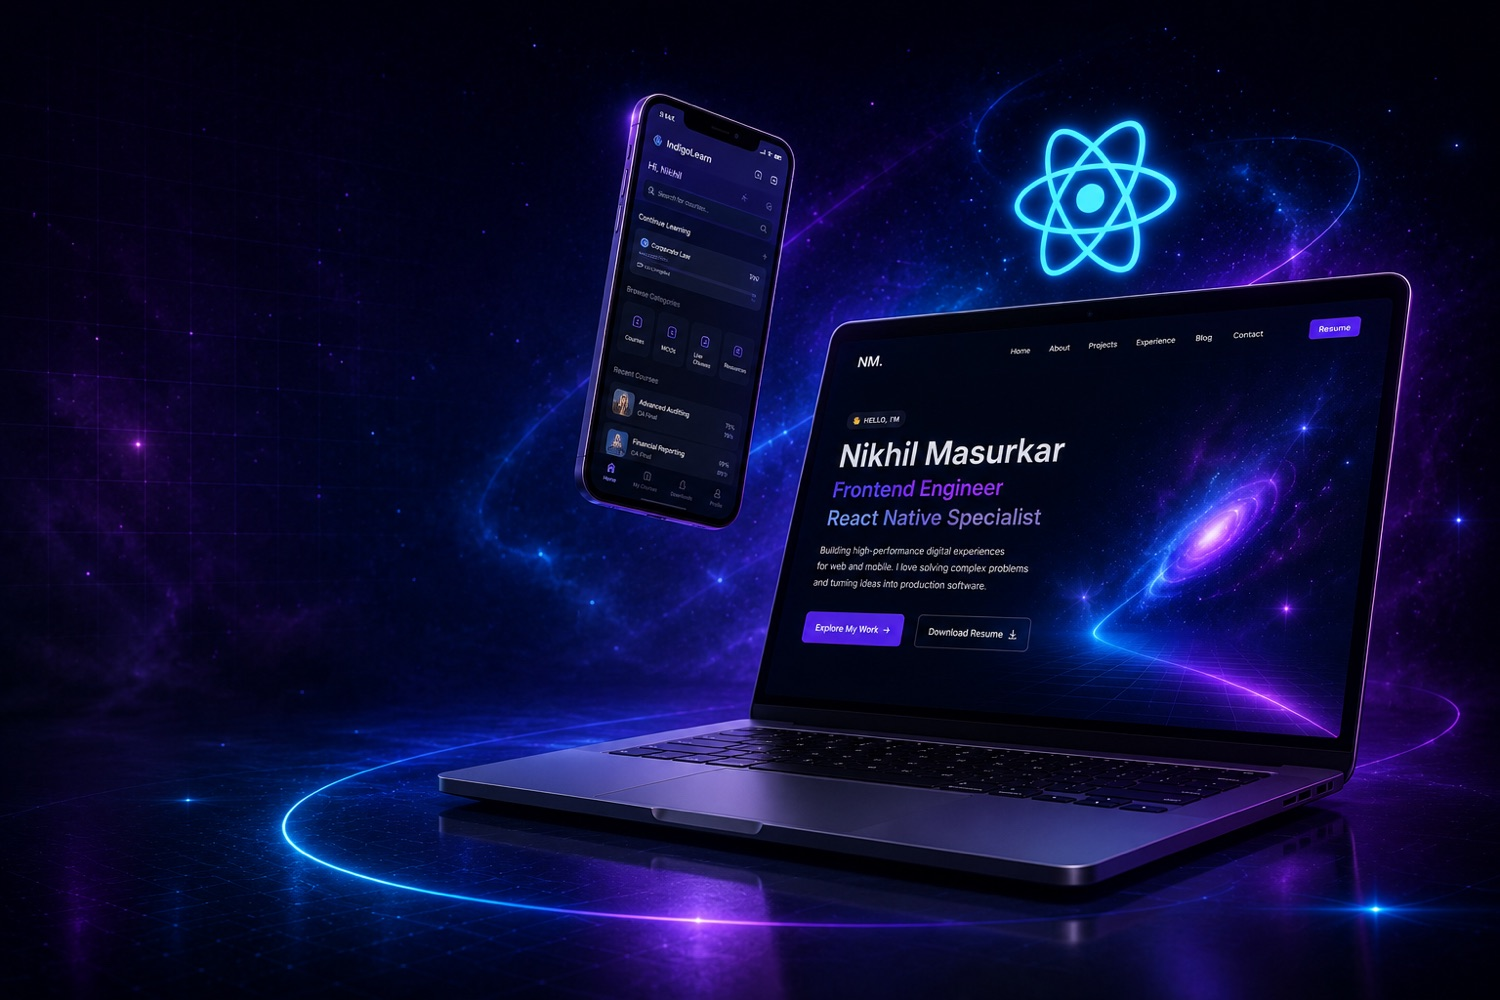
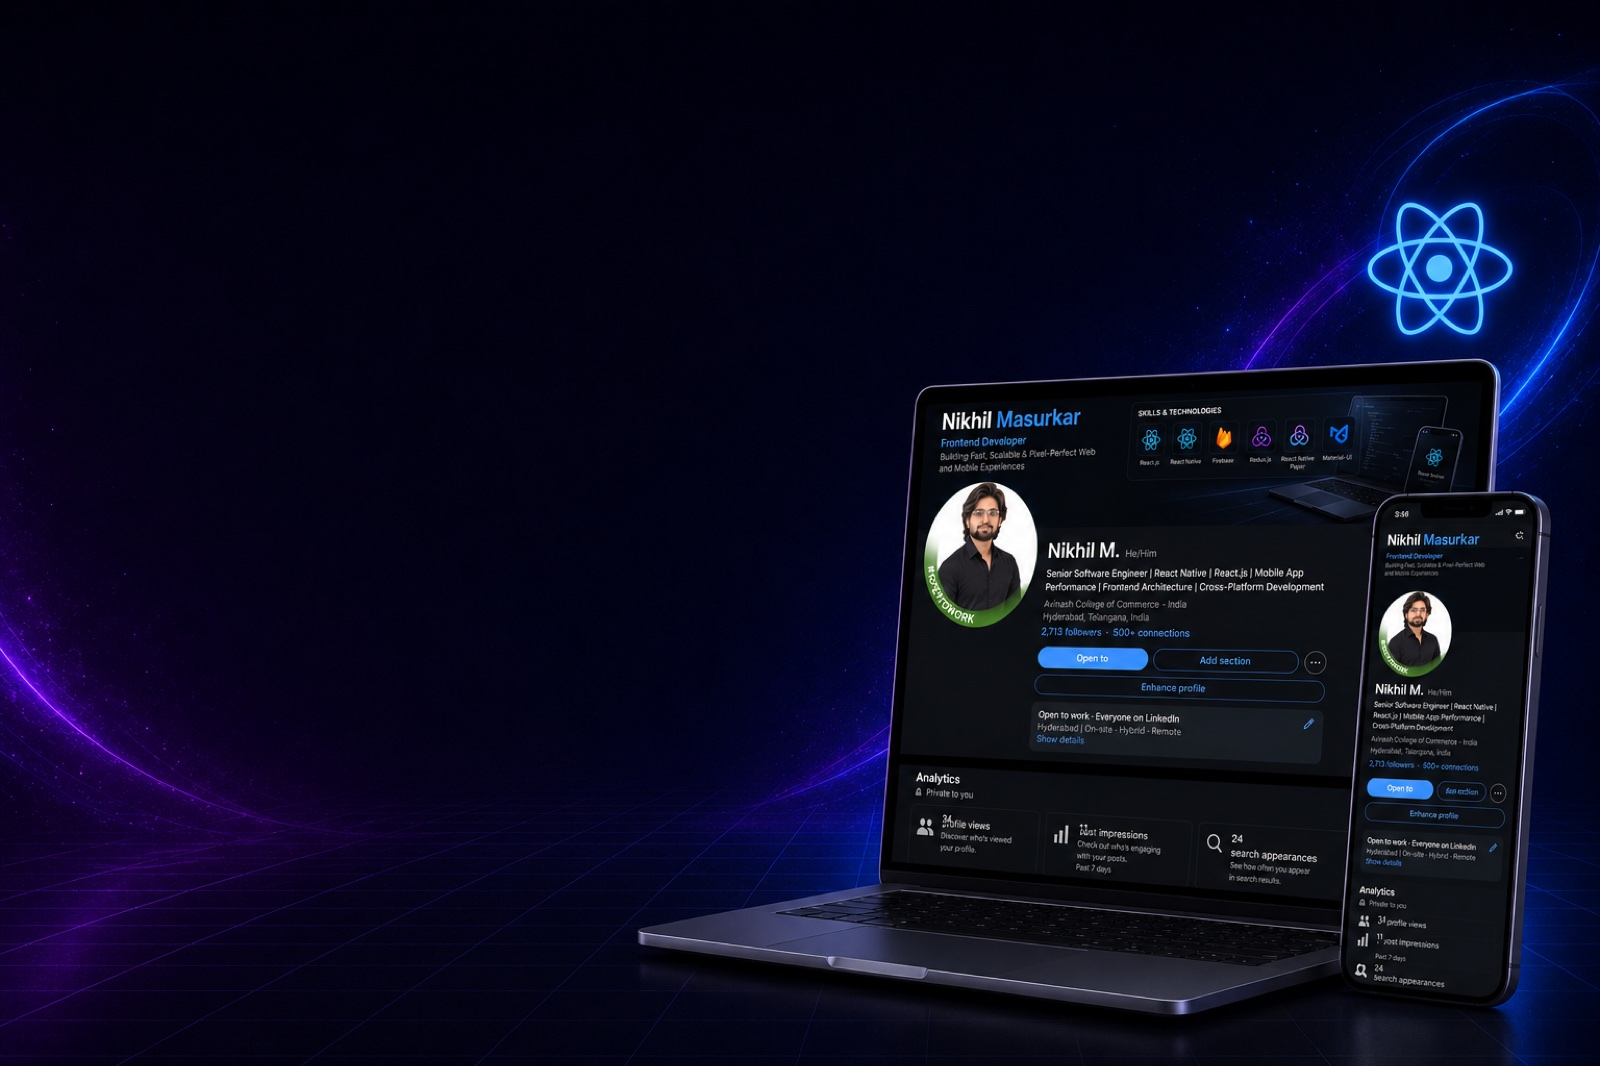
feat: swap in the new hero render and retune the scrim for it
The replacement HomePage.png is a different composition: laptop and phone
showing the LinkedIn profile, pushed further right and lower, with the React
mark up in the corner and the left third genuinely empty.

Kept as the hero backdrop rather than moved into a column. The image is
built for exactly this — the devices occupy the right and the empty left is
where the copy goes — so the layout stays left-content, right-devices with
the artwork as one continuous scene behind it.

Two values retuned for the new plate, both by looking rather than guessing:

- The crop anchor moves to 78% so the whole device cluster stays in frame
  when the section is wider than the image's 3:2.
- The scrim lightens substantially. The previous values were tuned for a
  busier plate whose mid-tones were near-black; this one leaves its left
  third empty already, so the copy needs far less covering and over-scrimming
  would just grey out artwork that is doing no harm.

Note the filename is stable and not content-hashed, so it carries a one-day
cache: a returning visitor keeps the previous render until that expires.
Fine for a background, and the reason this screenshot needed a cache-buster
to verify — worth knowing before swapping the image again.

97 tests pass; lint and verify green.

diff --git a/src/app/pages/home/Hero.jsx b/src/app/pages/home/Hero.jsx
@@ -35,9 +35,9 @@ export default function Hero() {
           <img
             src="/hero/devices.jpg"
             alt=""
-            width={1500}
-            height={1000}
-            className="h-full w-full object-cover object-[68%_center]"
+            width={1600}
+            height={1066}
+            className="h-full w-full object-cover object-[78%_center]"
             loading="eager"
             fetchPriority="high"
             decoding="async"
@@ -56,7 +56,7 @@ export default function Hero() {
           protects nothing on the right and the paragraph runs over the bright
           part of the plate. The mobile one is vertical and even instead.
         */}
-        <div className="absolute inset-0 hidden bg-[linear-gradient(100deg,var(--color-bg)_0%,rgb(5_8_22/0.88)_30%,rgb(5_8_22/0.22)_56%,rgb(5_8_22/0.3)_100%)] min-[900px]:block" />
+        <div className="absolute inset-0 hidden bg-[linear-gradient(100deg,rgb(5_8_22/0.82)_0%,rgb(5_8_22/0.6)_32%,rgb(5_8_22/0.12)_58%,rgb(5_8_22/0.18)_100%)] min-[900px]:block" />
         <div className="absolute inset-0 bg-[linear-gradient(180deg,rgb(5_8_22/0.86)_0%,rgb(5_8_22/0.78)_55%,rgb(5_8_22/0.92)_100%)] min-[900px]:hidden" />
         <div className="absolute inset-x-0 bottom-0 h-40 bg-[linear-gradient(to_bottom,transparent,var(--color-bg))]" />
       </div>
